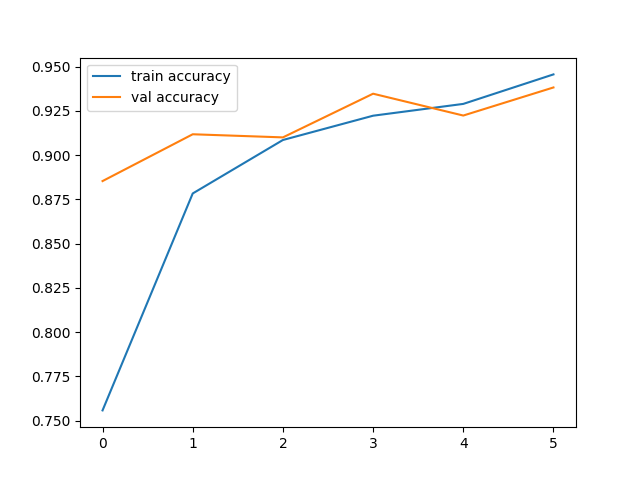
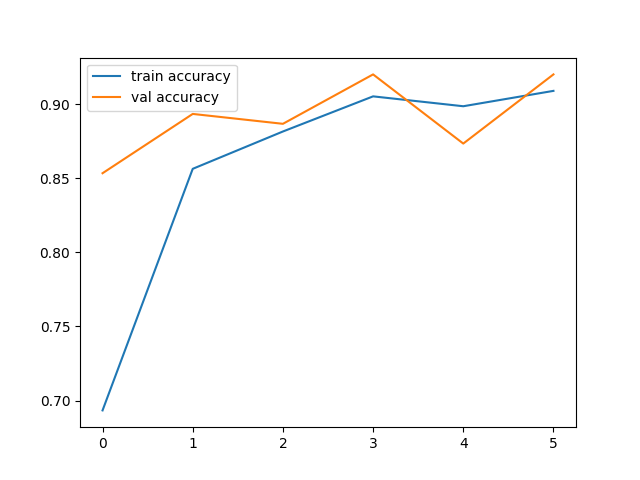
update

diff --git a/data_prep.py b/data_prep.py
@@ -1,54 +1,46 @@
 import os
 import numpy as np
-import matplotlib.pyplot as plt
-import matplotlib.image as mpimg
-from PIL import Image
+from keras.preprocessing import image
+import cv2
 import warnings
+import random
 warnings.filterwarnings("ignore")
 
 
 
 def get_XY():
+    categories = ['with_mask', 'without_mask']
+    dataset = []
 
-    with_mask_files = os.listdir('E:\GITHUB\Deep_learning-Neural-Network-projects-\data\with_mask')
-    without_mask_files = os.listdir('E:\GITHUB\Deep_learning-Neural-Network-projects-\data\without_mask')
-    with_mask_labels = [1]*len(with_mask_files)
-    without_mask_labels = [0]*len(without_mask_files)
+    for category in categories:
+        path = os.path.join('data', category)
+        label = categories.index(category)
+        file_list = os.listdir(path)
+        random.shuffle(file_list)  # Shuffle the file list
 
-    labels = with_mask_labels + without_mask_labels
+        count = 0  # Track the number of selected photos
+        for file in file_list:
+            if count >= 1000:
+                break  # Stop iterating if we have reached the desired count
 
-    with_mask_path = 'E:\GITHUB\Deep_learning-Neural-Network-projects-\data\with_mask/'
+            img_path = os.path.join(path, file)
+            img = cv2.imread(img_path)
+            img = cv2.resize(img, (224, 224))
 
-    data = []
+            dataset.append([img, label])
+            count += 1
 
-    for img_file in with_mask_files:
+    random.shuffle(dataset)
 
-        image = Image.open(with_mask_path + img_file)
-        image = image.resize((128,128))
-        image = image.convert("RGB")
-        image = np.array(image)
-        data.append(image)
+    X = []
+    Y = []
 
+    for features, label in dataset:
+        X.append(features)
+        Y.append(label)
 
+    X = np.array(X)
+    X = X / 255  # scaling the X
+    Y = np.array(Y)
 
-    without_mask_path = 'E:\GITHUB\Deep_learning-Neural-Network-projects-\data\without_mask/'
-
-
-
-    for img_file in without_mask_files:
-
-        image = Image.open(without_mask_path + img_file)
-        image = image.resize((128,128))
-        image = image.convert("RGB")
-        image = np.array(image)
-        data.append(image)
-
-
-    X = np.array(data)
-    Y = np.array(labels)
-
-
-    return X ,Y
-
-
-get_XY()
+    return X, Y

diff --git a/model.py b/model.py
@@ -1,36 +1,32 @@
 import tensorflow as tf
 from tensorflow import keras
+from keras.applications import VGG16
+from keras import Sequential
+from keras.layers import Dense
 
 
 # building the convulational neural network
 
+
 def create_model():
-    num_of_classes = 2
 
-    model = keras.Sequential()
-
+    vgg = VGG16()
+    model = Sequential()
     try:
-        model.add(keras.layers.Conv2D(32, kernel_size=(3,3), activation='relu', input_shape=(128,128,3)))
-        model.add(keras.layers.MaxPooling2D(pool_size=(2,2)))
-
-        model.add(keras.layers.Conv2D(64, kernel_size=(3,3), activation='relu'))
-        model.add(keras.layers.MaxPooling2D(pool_size=(2,2)))
-
-        model.add(keras.layers.Flatten())
-
-        model.add(keras.layers.Dense(128, activation='relu'))
-        model.add(keras.layers.Dropout(0.5))
-
-        model.add(keras.layers.Dense(64, activation='relu'))
-        model.add(keras.layers.Dropout(0.5))
-
-        model.add(keras.layers.Dense(num_of_classes, activation='sigmoid'))
+        for layer in vgg.layers[:-1]:
+            model.add(layer)
+        for layer in model.layers:
+            layer.trainable = False
+        model.add(Dense(1,activation='sigmoid'))
 
         return model
-
+    
     except ValueError as ve:
         print("ValueError occurred:", str(ve))
     except TypeError as te:
         print("TypeError occurred:", str(te))
     except Exception as e:
         print("An error occurred:", str(e))
+
+
+

diff --git a/implement.py b/implement.py
@@ -1,33 +1,28 @@
+
+
+import numpy as np
 from sklearn.model_selection import train_test_split
 import data_prep as dp
-import tensorflow as tf
-from tensorflow import keras
 from model import create_model
 import pickle
 
+# Load the data
+X, Y = dp.get_XY()
 
-X , Y = dp.get_XY()
+# Split the data into train and test sets
+X_train, X_test, Y_train, Y_test = train_test_split(X, Y, test_size=0.25, random_state=2)
 
-X_train, X_test, Y_train, Y_test = train_test_split(X,Y,test_size=0.25,random_state=2)
-
-# scale the data
-
-X_train_scaled = X_train/255
-X_test_scaled = X_test/255  
-
+# Create and compile the model
 model = create_model()
+model.compile(optimizer='adam', loss='binary_crossentropy', metrics=['accuracy'])
 
-model.compile(optimizer='adam',loss='sparse_categorical_crossentropy',metrics=['acc'])
-
-history = model.fit(X_train_scaled,Y_train,validation_split=0.1,epochs=6)
-              
-              
-
-loss , accuracy = model.evaluate(X_test_scaled,Y_test)
-print("Test Accuracyc=",accuracy*100,"%")
+history = model.fit(X_train,Y_train,validation_split = 0.1,epochs=6)
 
 
-with open("training_history.pkl",'wb') as f:
+loss , accuracy = model.evaluate(X_test,Y_test)
+print("The Test accuracy =",accuracy*100,"%")
+
+with open('training_history.pkl','wb') as f:
     pickle.dump(history.history,f)
-    
+
 model.save('trained_model.h5')

diff --git a/plot_history.py b/plot_history.py
@@ -15,8 +15,8 @@ plt.close()
 
 
 #plot the accuracy value
-plt.plot(h['acc'],label = 'train accuracy')
-plt.plot(h['val_acc'],label = 'val accuracy')
+plt.plot(h['accuracy'],label = 'train accuracy')
+plt.plot(h['val_accuracy'],label = 'val accuracy')
 plt.legend()
 plt.savefig("Accuracy_plot.png")
 plt.close()
